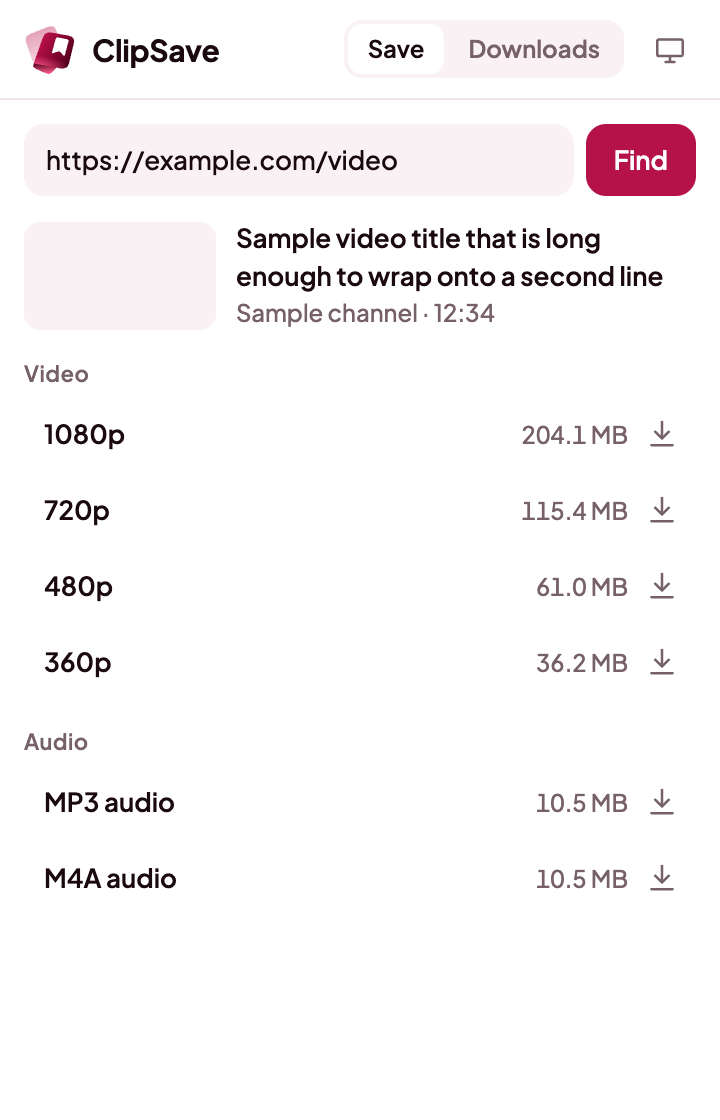
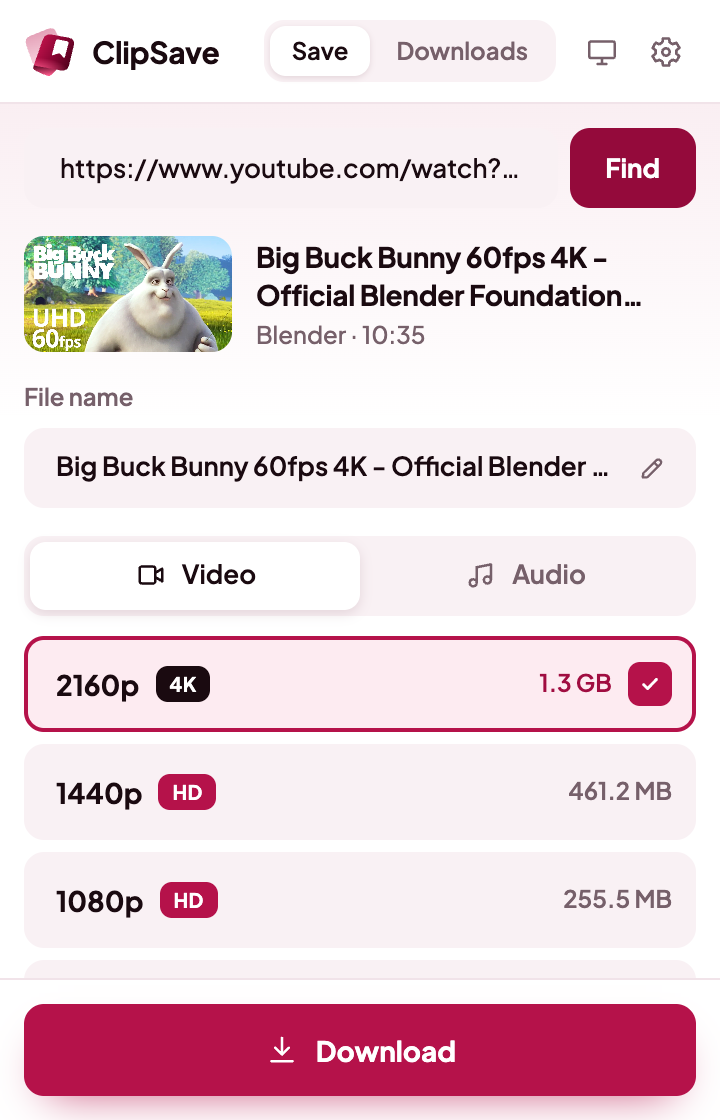
Short install command, one-line in the popup, and new README pictures
The popup and Settings show curl -fsSL https://ext.clipsave.link/install.sh | sh (and the
PowerShell one), as the website does, set on one line in the popup. The site counts each
installer run, so PRIVACY.md and the install guide now say so and give the uncounted GitHub
address. The README has fresh popup and Settings pictures, a Settings section and the install
commands; npm run images retakes the pictures from the real build and helper.

diff --git a/src/lib/install.ts b/src/lib/install.ts
@@ -1,5 +1,8 @@
-/** Where people get the helper. The installers always fetch the newest release. */
-const RELEASES = 'https://github.com/sahedulislamrony/ClipSave-Extensions/releases/latest/download';
+/**
+ * Where people get the helper: the website's short addresses, which serve the newest release's install.sh and
+ * install.ps1 from GitHub on every request (and count each run). The same scripts are attached to every release.
+ */
+const INSTALLERS = 'https://ext.clipsave.link';
 
 export const HELP_PAGE =
   'https://github.com/sahedulislamrony/ClipSave-Extensions/blob/main/docs/install.md#install-the-helper';
@@ -15,9 +18,9 @@ export function installStep(os: string): InstallStep | null {
   switch (os) {
     case 'mac':
     case 'linux':
-      return { app: 'Terminal', command: `curl -fsSL ${RELEASES}/install.sh | sh` };
+      return { app: 'Terminal', command: `curl -fsSL ${INSTALLERS}/install.sh | sh` };
     case 'win':
-      return { app: 'PowerShell', command: `irm ${RELEASES}/install.ps1 | iex` };
+      return { app: 'PowerShell', command: `irm ${INSTALLERS}/install.ps1 | iex` };
     default:
       return null;
   }

diff --git a/tests/install.test.ts b/tests/install.test.ts
@@ -6,8 +6,7 @@ describe('installStep', () => {
     for (const os of ['mac', 'linux']) {
       expect(installStep(os)).toEqual({
         app: 'Terminal',
-        command:
-          'curl -fsSL https://github.com/sahedulislamrony/ClipSave-Extensions/releases/latest/download/install.sh | sh',
+        command: 'curl -fsSL https://ext.clipsave.link/install.sh | sh',
       });
     }
   });
@@ -15,7 +14,7 @@ describe('installStep', () => {
   it('gives Windows the PowerShell installer', () => {
     expect(installStep('win')).toEqual({
       app: 'PowerShell',
-      command: 'irm https://github.com/sahedulislamrony/ClipSave-Extensions/releases/latest/download/install.ps1 | iex',
+      command: 'irm https://ext.clipsave.link/install.ps1 | iex',
     });
   });
 

diff --git a/src/entrypoints/popup/style.css b/src/entrypoints/popup/style.css
@@ -228,6 +228,19 @@ main {
   border-radius: var(--r-lg);
 }
 
+/* The install command on one line, so it reads as one thing to paste: it reaches nearly to the card's edges and is
+   set just small enough to fit. A wider system font scrolls sideways instead of wrapping; Copy takes it all anyway. */
+.notice .command.one-line {
+  width: calc(100% + 24px);
+  margin-inline: -12px;
+  padding: 9px 11px;
+  font-size: 10px;
+  letter-spacing: -0.02em;
+  white-space: nowrap;
+  overflow-x: auto;
+  scrollbar-width: none;
+}
+
 .notice h2 {
   font-size: 14px;
   font-weight: 700;

diff --git a/src/styles/theme.css b/src/styles/theme.css
@@ -218,6 +218,7 @@ svg {
   border: 1px solid var(--line);
   border-radius: var(--r-sm);
   font: 12px/1.5 ui-monospace, 'SF Mono', Menlo, Consolas, monospace;
-  overflow-wrap: anywhere;
+  /* Wraps at spaces first, so an address stays whole; only a word too long for a line breaks. */
+  overflow-wrap: break-word;
   user-select: all;
 }

diff --git a/src/entrypoints/popup/main.ts b/src/entrypoints/popup/main.ts
@@ -138,7 +138,7 @@ function renderInstall(): HTMLElement {
       getSelection()?.selectAllChildren(command);
     }
   });
-  const command = el('code', { className: 'command' }, step.command);
+  const command = el('code', { className: 'command one-line' }, step.command);
   return el(
     'div',
     { className: 'notice' },

diff --git a/README.md b/README.md
@@ -16,25 +16,32 @@
 </p>
 
 <p align="center">
-  <img src="docs/images/popup-picker.png" width="300" alt="The ClipSave popup listing video qualities from 1080p to 360p and two audio formats, each with its file size">
+  <img src="docs/images/popup-picker.png" width="300" alt="The ClipSave popup on Big Buck Bunny: its thumbnail, an editable file name, a Video and Audio switch, and qualities from 2160p 4K down, each with its file size">
   &nbsp;
-  <img src="docs/images/popup-downloads.png" width="300" alt="The Downloads tab with one download in progress, one failed with a retry button, and one saved">
+  <img src="docs/images/popup-downloads.png" width="300" alt="The Downloads tab: Big Buck Bunny downloading at 62%, Sintel saved in 1080p and Tears of Steel saved as MP3 audio, each with its thumbnail">
 </p>
 
 ## What it does
 
-- **One click on a video page.** ClipSave reads the page and lists every quality with its file size. Switch
-  between Video and Audio, pick one, and click Download.
+- **One click on a video page.** ClipSave reads the page and lists every quality, up to 4K, with its file size.
+  Switch between Video and Audio, pick one, and click Download.
 - **Video or audio.** Save MP4 video, or MP3 / M4A audio.
+- **Name your files.** The file name starts as the video's title; change it before you save.
 - **YouTube, in every browser.** Chrome, Edge, Brave and Firefox all save from YouTube.
 - **Whole playlists.** Open a playlist, or a video that's part of one, pick a quality and which videos, and
-  save them all. Each playlist gets its own folder.
+  save them all. Each playlist gets its own folder, and its files can be numbered.
 - **Right-click to save.** Right-click a page or link and choose **ClipSave → Save video** or **Save audio**.
 - **Keeps working in the background.** Close the popup and the download carries on. Cancel or retry any time.
+- **One-click updates.** Settings checks for a new ClipSave and yt-dlp, and updates both in one click.
 - **Private.** No account, no analytics, no servers. Everything runs on your computer.
+- **Light or dark**, or follows your system.
 
-Files go to a **ClipSave** folder in your Videos (Movies on macOS) and Music folders. Works on macOS, Windows and
-Linux.
+Files go to a **ClipSave** folder in your Videos (Movies on macOS) and Music folders, or wherever you choose in
+Settings. Works on macOS, Windows and Linux.
+
+<p align="center">
+  <img src="docs/images/popup-picker-dark.png" width="300" alt="The same popup in the dark theme">
+</p>
 
 ## Install
 
@@ -46,11 +53,42 @@ helper does it for them. It brings everything it needs, so there's nothing else 
 2. Click its button. It shows one command with a **Copy** button.
 3. Paste it into Terminal (macOS, Linux) or PowerShell (Windows). The popup carries on by itself once it's done.
 
+```bash
+curl -fsSL https://ext.clipsave.link/install.sh | sh
+```
+
+```powershell
+irm https://ext.clipsave.link/install.ps1 | iex
+```
+
+The installer downloads about 110 MB (the helper, yt-dlp, ffmpeg and QuickJS), checks every file against the
+release's SHA-256 checksums and installs for your user only, with no administrator password. On Chrome, Edge and
+Brave it also keeps a copy of the extension in the helper's folder: load that folder once with **Load unpacked** and
+Settings keeps it up to date.
+
 The full guide, with every browser and troubleshooting, is in **[docs/install.md](docs/install.md)**.
 
 <p align="center">
   <img src="docs/images/popup-helper-missing.png" width="300" alt="The ClipSave popup's one-time setup: a single install command with a Copy button">
 </p>
+
+## Settings
+
+Click the gear in the popup to open Settings in its own tab.
+
+- **Updates.** See the extension's and the helper's versions, **Check now**, or turn on **Check automatically**
+  (once a day, off until you turn it on). **Update ClipSave** installs the newest release in one click, and
+  **Update yt-dlp** brings yt-dlp's newest release between ClipSave releases.
+- **Save folders.** Pick separate folders for videos and audio, or **Use default** to go back.
+- **Appearance.** System, Light or Dark, for the popup and Settings.
+- **About.** Versions, browser, system and where the helper's tools are, with **Copy details** for bug reports.
+- **Help and feedback.** The install guide, bug reports, feature requests, the privacy policy and release notes.
+
+<p align="center">
+  <img src="docs/images/settings.png" width="640" alt="ClipSave Settings: the extension and the helper both up to date at 1.2.0, the Check automatically switch, the video and audio save folders, and the System, Light and Dark theme choice">
+</p>
+
+## Browsers
 
 | | Chrome, Edge, Brave | Firefox |
 |---|---|---|
@@ -58,7 +96,7 @@ The full guide, with every browser and troubleshooting, is in **[docs/install.md
 | Other sites | Supported | Supported |
 
 ClipSave isn't published on the Chrome Web Store, whose rules don't allow YouTube downloads. Install it
-unpacked as described in the install guide.
+unpacked as described in the install guide. On Firefox, install it from Firefox Add-ons, which keeps it up to date.
 
 ## Documentation
 

diff --git a/PRIVACY.md b/PRIVACY.md
@@ -2,8 +2,9 @@
 
 *ClipSave for browsers (the browser extension and the ClipSave Helper). Last updated 2026-11-04.*
 
-**ClipSave collects no data.** It has no servers, no account, no analytics, no crash reporting and no ads.
-Nothing about you or what you save is sent to the ClipSave project.
+**The extension and the helper collect no data.** They have no servers, no account, no analytics, no crash reporting
+and no ads, and send nothing about you or what you save to the ClipSave project. The one thing counted is a run of
+the install command, by the ClipSave website (below).
 
 ## What stays on your computer
 
@@ -23,6 +24,12 @@ Nothing about you or what you save is sent to the ClipSave project.
   [yt-dlp](https://github.com/yt-dlp/yt-dlp) connects to that site directly, the same way your browser does when
   you watch it. That site's own privacy policy applies.
 * **The video's thumbnail**, shown in the popup, loads from the website it belongs to.
+* **ext.clipsave.link**, the ClipSave website, when you run the install command the extension shows
+  (`ext.clipsave.link/install.sh` or `install.ps1`). The site sends you the newest installer from GitHub and counts
+  the run: the file name, and the browser or tool, approximate location and a one-way hash of the IP address that
+  asked for it, as its [privacy policy](https://ext.clipsave.link/privacy) describes. Do Not Track and Global
+  Privacy Control turn the count off, and the [install guide](docs/install.md#install-the-helper) gives the GitHub
+  address of the same script, which isn't counted. The extension and the helper never contact the site themselves.
 * **GitHub**, when you run the installer or click **Update** in Settings (to download a release and yt-dlp),
   when you click **Check now** in Settings, and once a day if you turn on **Check automatically** (off until you
   do). A check asks GitHub's public API for the newest ClipSave and yt-dlp version numbers; nothing about you

diff --git a/docs/install.md b/docs/install.md
@@ -57,14 +57,19 @@ yourself.
 **macOS and Linux**, in Terminal:
 
 ```bash
-curl -fsSL https://github.com/sahedulislamrony/ClipSave-Extensions/releases/latest/download/install.sh | sh
+curl -fsSL https://ext.clipsave.link/install.sh | sh
 ```
 
 **Windows**, in PowerShell (Start menu → type *PowerShell*):
 
 ```powershell
-irm https://github.com/sahedulislamrony/ClipSave-Extensions/releases/latest/download/install.ps1 | iex
+irm https://ext.clipsave.link/install.ps1 | iex
 ```
+
+`ext.clipsave.link/install.sh` and `install.ps1` serve the newest release's script straight from GitHub, and the
+site counts each run (see [PRIVACY.md](../PRIVACY.md)). To skip the count, use the same script from the release
+itself: `https://github.com/sahedulislamrony/ClipSave-Extensions/releases/latest/download/install.sh` (or
+`install.ps1`).
 
 The installer downloads about 110 MB, checks it against the release's published checksums, installs it for
 your user only (no administrator password) and tells your browsers where it is:
@@ -130,13 +135,13 @@ you turn it on.
 **macOS, Linux:**
 
 ```bash
-curl -fsSL https://github.com/sahedulislamrony/ClipSave-Extensions/releases/latest/download/install.sh | sh -s -- --uninstall
+curl -fsSL https://ext.clipsave.link/install.sh | sh -s -- --uninstall
 ```
 
 **Windows (PowerShell):**
 
 ```powershell
-& ([scriptblock]::Create((irm https://github.com/sahedulislamrony/ClipSave-Extensions/releases/latest/download/install.ps1))) -Uninstall
+& ([scriptblock]::Create((irm https://ext.clipsave.link/install.ps1))) -Uninstall
 ```
 
 This removes the helper and unregisters it from your browsers. Then remove the extension from the extensions

diff --git a/docs/development.md b/docs/development.md
@@ -82,6 +82,10 @@ Run one browser with `npm run e2e:chrome` or `npm run e2e:firefox`. Set `CHROME_
 browser isn't in the usual place, and `CLIPSAVE_HELPER` to test a different helper binary (for example one
 installed by `install.sh`). Screenshots land in `e2e/screenshots/`.
 
+`npm run images` retakes the README pictures in `docs/images` from the real Chrome build and helper (build both
+first, as above). It needs the internet: it reads three Blender open movies on YouTube for their titles, sizes and
+thumbnails.
+
 ## Project layout
 
 ```

diff --git a/CHANGELOG.md b/CHANGELOG.md
@@ -6,6 +6,12 @@ All notable changes to ClipSave for browsers are documented here. The format fol
 
 ## [Unreleased]
 
+### Changed
+- The install command is shorter: `curl -fsSL https://ext.clipsave.link/install.sh | sh` (macOS, Linux) and
+  `irm https://ext.clipsave.link/install.ps1 | iex` (Windows). The site serves the newest release's installer from
+  GitHub and counts each run; the GitHub address still works and isn't counted. See PRIVACY.md.
+- The popup shows the install command on one line.
+
 ## [1.2.0] - 2026-11-04
 
 ### Added
